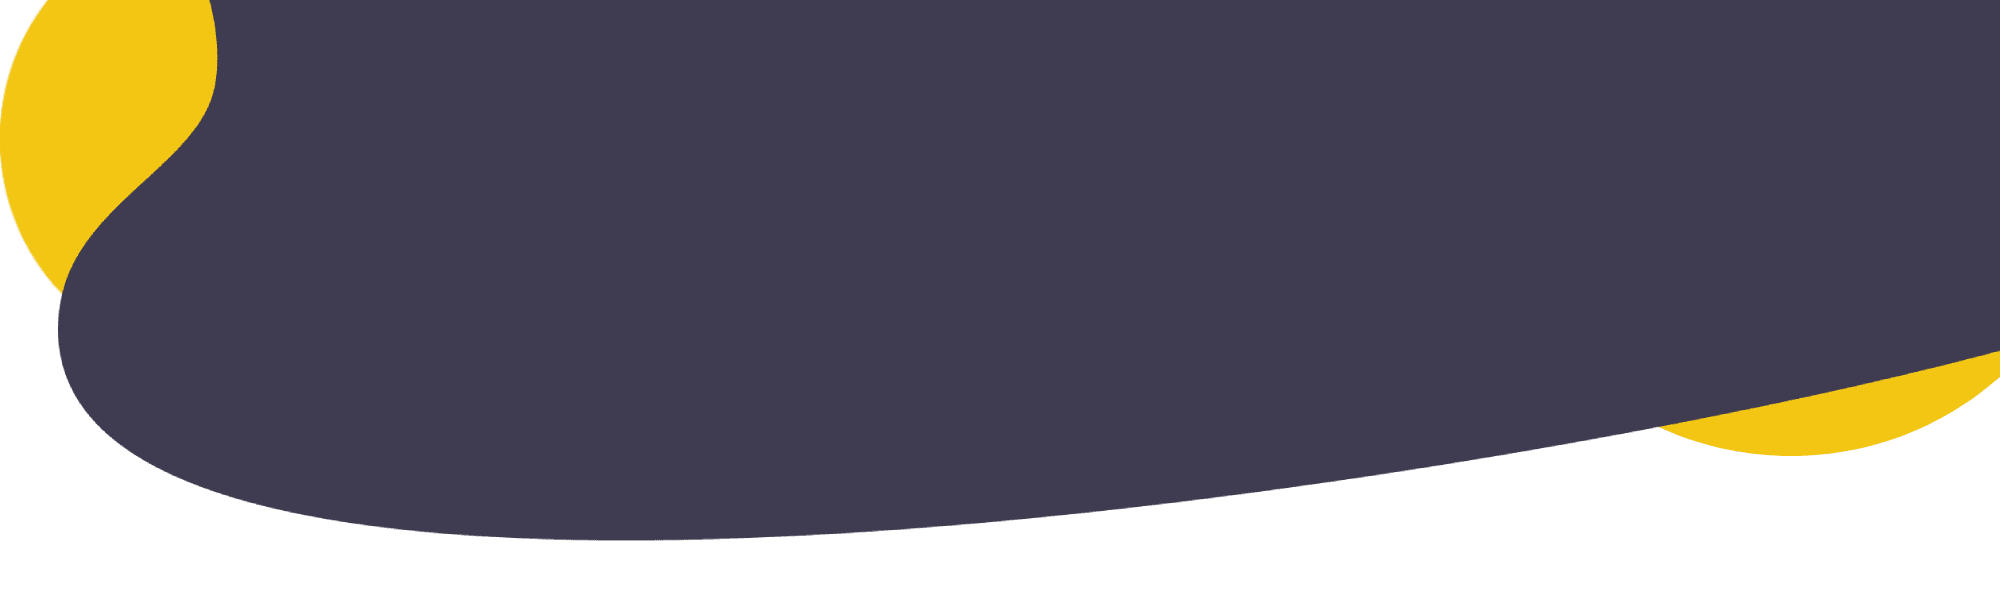
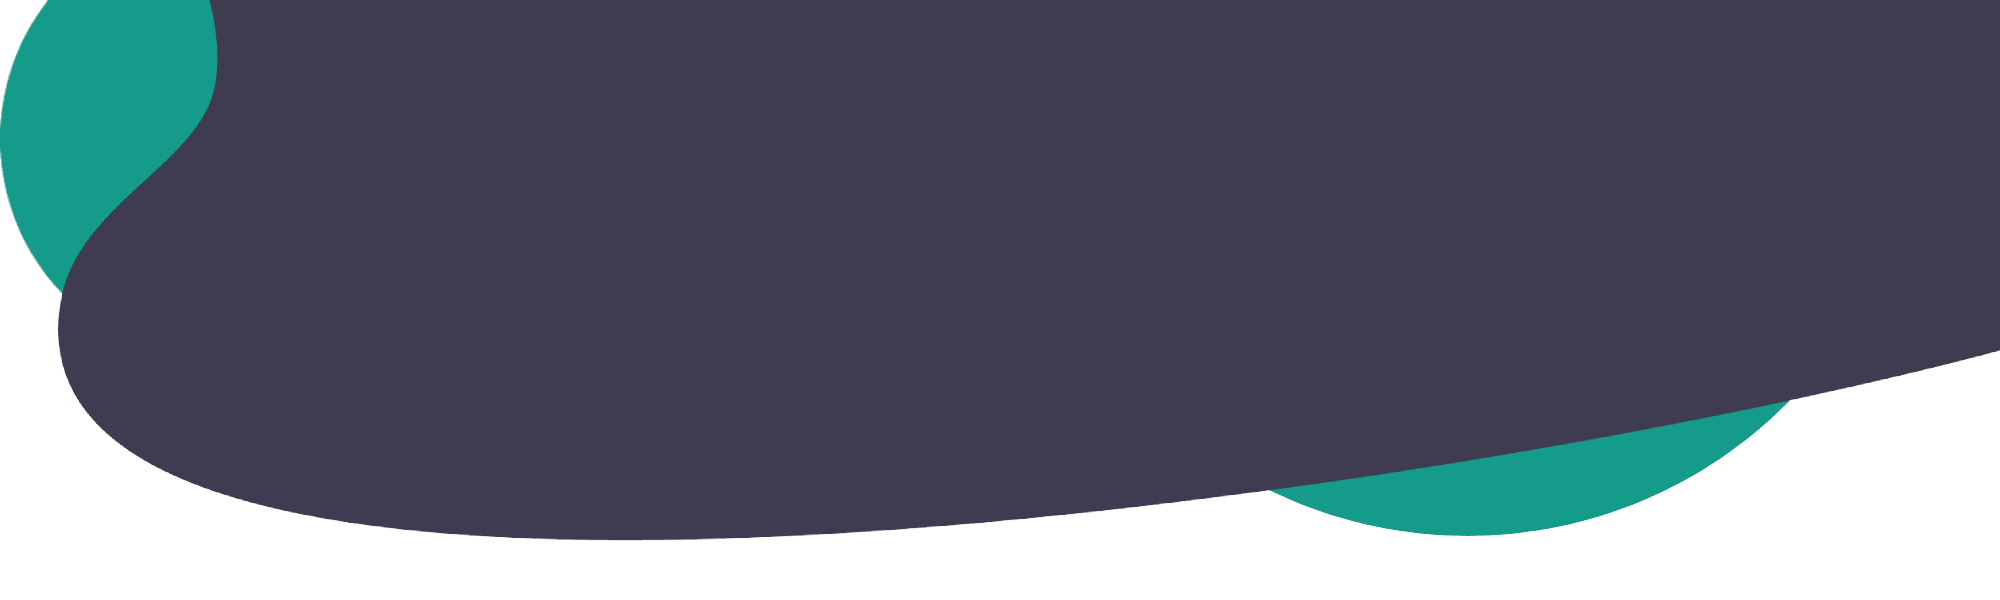
.

Changed region(s): [[0.62, 0.57, 1.0, 0.9], [0.0, 0.0, 0.124, 0.48]]

diff --git a/contact/contact-main.scss b/contact/contact-main.scss
@@ -10,7 +10,7 @@ $purple: lighten(#804DD4, 5%);
 $purple2: #804DD4; //actual
 $red: #D44D4D;
 $yellow: #ffcc00;
-$cyan: #3BCEB4;
+$cyan: #149B8A;
 $black: black;
 $white: white;
 
@@ -43,7 +43,7 @@ $box-shadow-hover: 1px 1px 1px darken(#3f3b513a, 100%),
         position: relative;
 
         p {
-            color: $yellow;
+            color: $cyan;
             font-weight: 600;
             line-height: 1.25;
             margin-bottom: 10px;

diff --git a/contact/contact-main.css b/contact/contact-main.css
@@ -13,7 +13,7 @@
     position: relative;
   }
   .services-hero-text p {
-    color: #ffcc00;
+    color: #149B8A;
     font-weight: 600;
     line-height: 1.25;
     margin-bottom: 10px;
